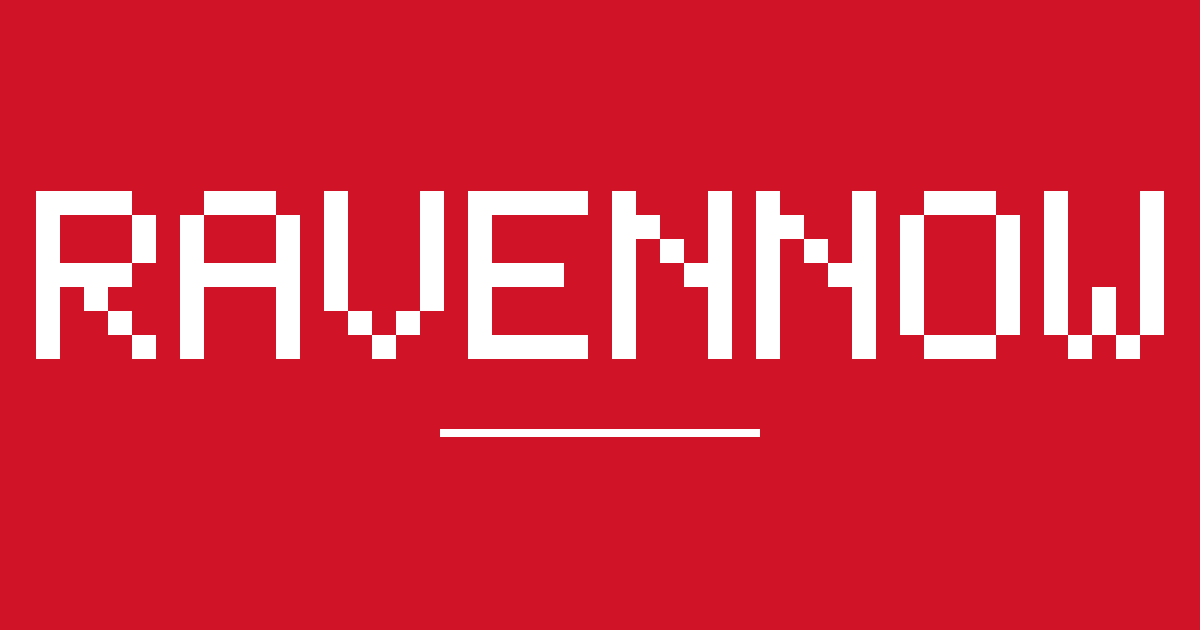
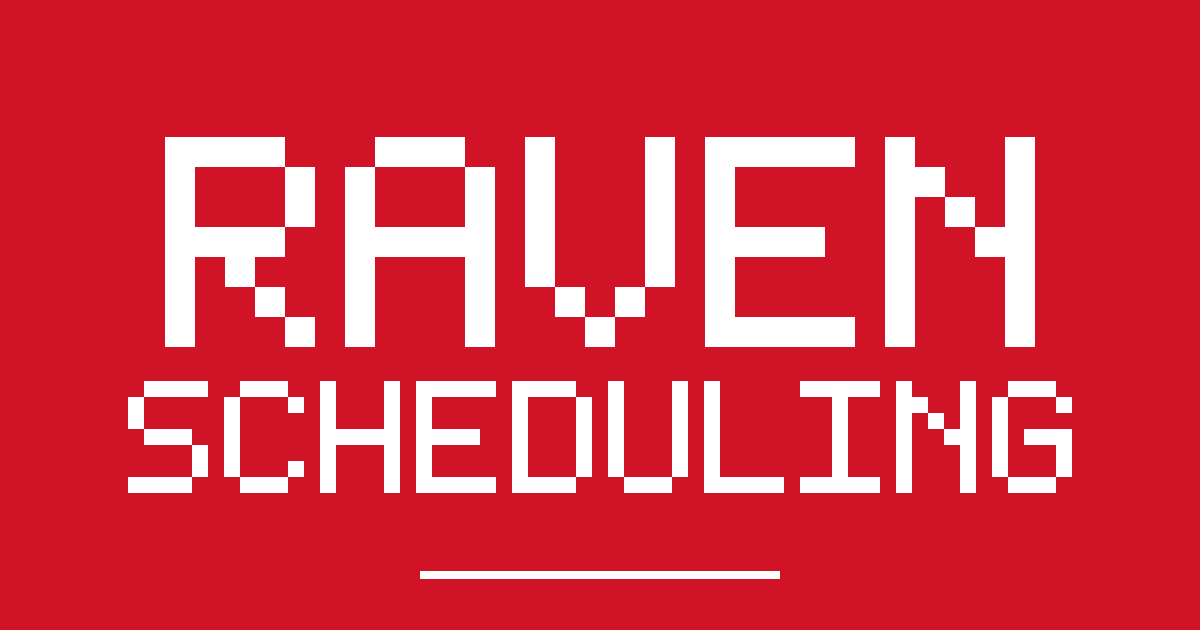
Rename the product to Raven Scheduling
Update every user-facing string, page title, meta tag, the browser extension manifest and docs, and the Open Graph share image.

Change the monogram from RN to RS across the site header, side panel, options page, and favicon, and regenerate the share image from a full uppercase bitmap font with a two-line wordmark.

Changed region(s): [[0.0308, 0.2111, 0.9867, 0.573], [0.0925, 0.6032, 0.8942, 0.7841], [0.3392, 0.9048, 0.6475, 0.9349]]

diff --git a/frontend/src/App.tsx b/frontend/src/App.tsx
@@ -28,7 +28,7 @@ const FEATURES = [
   {
     icon: ListChecks,
     title: "Every deadline in one list",
-    body: "RavenNow reads your courses on Brightspace and lists every assignment, quiz, lab and discussion in the side panel. No syllabus upload, no calendar import.",
+    body: "Raven Scheduling reads your courses on Brightspace and lists every assignment, quiz, lab and discussion in the side panel. No syllabus upload, no calendar import.",
   },
   {
     icon: RefreshCw,
@@ -43,7 +43,7 @@ const FEATURES = [
   {
     icon: ShieldCheck,
     title: "No account, no personal info",
-    body: "RavenNow never asks for your name, student number or Brightspace password. It only stores the deadlines it already shows you.",
+    body: "Raven Scheduling never asks for your name, student number or Brightspace password. It only stores the deadlines it already shows you.",
   },
 ];
 
@@ -54,7 +54,7 @@ const STEPS = [
   },
   {
     title: "Open Brightspace once",
-    body: "Sign in as usual. RavenNow reads your courses and builds the list in the side panel.",
+    body: "Sign in as usual. Raven Scheduling reads your courses and builds the list in the side panel.",
   },
   {
     title: "Check the side panel",
@@ -73,7 +73,7 @@ export default function App() {
   const installHref = config?.chrome_store_url || "/install";
   const installLabel = config?.chrome_store_url
     ? "Add to Chrome"
-    : "Install RavenNow";
+    : "Install Raven Scheduling";
 
   return (
     <div className="flex min-h-screen flex-col">
@@ -94,7 +94,7 @@ export default function App() {
                 Every Brightspace deadline, kept up to date when profs move them.
               </h1>
               <p className="max-w-xl text-lg text-muted-foreground">
-                Stop rebuilding your calendar every term. RavenNow reads your
+                Stop rebuilding your calendar every term. Raven Scheduling reads your
                 deadlines from Brightspace and keeps them current in a browser
                 side panel.
               </p>
@@ -160,7 +160,7 @@ export default function App() {
         {/* Install */}
         <section id="install" className="container py-16 md:py-20">
           <div className="mx-auto max-w-2xl text-center">
-            <h2 className="text-3xl font-semibold tracking-tight">Get RavenNow</h2>
+            <h2 className="text-3xl font-semibold tracking-tight">Get Raven Scheduling</h2>
             <p className="mt-3 text-muted-foreground">
               Available now for Chrome and Edge. Firefox and Safari are planned.
             </p>
@@ -190,7 +190,7 @@ export default function App() {
                 <p className="text-sm text-muted-foreground">
                   {config?.chrome_store_url
                     ? "One click, with automatic updates."
-                    : "RavenNow is not in a store yet, so you load it from a zip once. The steps and a one-line script are on the install page."}
+                    : "Raven Scheduling is not in a store yet, so you load it from a zip once. The steps and a one-line script are on the install page."}
                 </p>
               </CardContent>
             </Card>

diff --git a/frontend/src/pages/PrivacyPage.tsx b/frontend/src/pages/PrivacyPage.tsx
@@ -30,7 +30,7 @@ export default function PrivacyPage() {
             <section className="space-y-2">
               <h2>The short version</h2>
               <p>
-                RavenNow does not ask for your name, email, student number or
+                Raven Scheduling does not ask for your name, email, student number or
                 Brightspace password. It stores the deadlines it reads from your
                 courses so it can show them to you and notice when a due date
                 changes.
@@ -47,7 +47,7 @@ export default function PrivacyPage() {
                   Course names and codes, and assignment titles, types and due
                   dates read from your Brightspace pages.
                 </li>
-                <li>Which items you have checked off in RavenNow.</li>
+                <li>Which items you have checked off in Raven Scheduling.</li>
                 <li>
                   Basic technical data needed to run the service, such as sync
                   timestamps.
@@ -59,7 +59,7 @@ export default function PrivacyPage() {
               <h2>What we do not collect</h2>
               <ul>
                 <li>Your name, email or student number.</li>
-                <li>Your Brightspace password. RavenNow never sees it.</li>
+                <li>Your Brightspace password. Raven Scheduling never sees it.</li>
                 <li>
                   Your grades, submissions, discussion posts or any other course
                   content.
@@ -73,7 +73,7 @@ export default function PrivacyPage() {
               <p>
                 The browser extension reads deadline information from Brightspace
                 pages you are already signed in to. It sends that deadline
-                information to the RavenNow server, which normalizes and stores it
+                information to the Raven Scheduling server, which normalizes and stores it
                 so your list stays consistent and changes can be detected between
                 syncs.
               </p>
@@ -82,7 +82,7 @@ export default function PrivacyPage() {
             <section className="space-y-2">
               <h2>Third parties</h2>
               <p>
-                RavenNow is not affiliated with or endorsed by D2L Corporation or
+                Raven Scheduling is not affiliated with or endorsed by D2L Corporation or
                 Carleton University. We do not sell your data. Data is stored on
                 our hosting provider solely to operate the service.
               </p>

diff --git a/frontend/src/pages/InstallPage.tsx b/frontend/src/pages/InstallPage.tsx
@@ -71,7 +71,7 @@ const STEPS: { title: string; body: ReactNode }[] = [
       <>
         Click <em>Load unpacked</em> and pick the unzipped folder, the one that
         holds{" "}
-        <code className="rounded bg-muted px-1">manifest.json</code>. The RavenNow
+        <code className="rounded bg-muted px-1">manifest.json</code>. The Raven Scheduling
         icon shows up in your toolbar.
       </>
     ),
@@ -102,10 +102,10 @@ export default function InstallPage() {
             No store needed
           </Badge>
           <h1 className="mt-4 text-3xl font-semibold tracking-tight sm:text-4xl">
-            Install RavenNow
+            Install Raven Scheduling
           </h1>
           <p className="mt-3 text-muted-foreground">
-            RavenNow is not in a browser store yet, so you install it yourself.
+            Raven Scheduling is not in a browser store yet, so you install it yourself.
             It takes about a minute, and it runs in Chrome and Edge on Windows,
             macOS and Linux.
           </p>
@@ -151,7 +151,7 @@ export default function InstallPage() {
             <ShieldCheck className="mt-0.5 h-4 w-4 shrink-0 text-brand" />
             <p>
               Chrome may show a notice about developer mode extensions. That is
-              normal for anything not installed from a store. RavenNow stays
+              normal for anything not installed from a store. Raven Scheduling stays
               installed after you restart the browser, and it runs the same code
               you can read in the repository.
             </p>

diff --git a/frontend/index.html b/frontend/index.html
@@ -4,17 +4,17 @@
     <meta charset="UTF-8" />
     <link rel="icon" type="image/svg+xml" href="/favicon.svg" />
     <meta name="viewport" content="width=device-width, initial-scale=1.0" />
-    <title>RavenNow: Brightspace deadlines, kept up to date</title>
+    <title>Raven Scheduling: Brightspace deadlines, kept up to date</title>
     <meta
       name="description"
-      content="RavenNow reads your deadlines from Brightspace and keeps them current in a browser side panel, even when a due date changes. Free."
+      content="Raven Scheduling reads your deadlines from Brightspace and keeps them current in a browser side panel, even when a due date changes. Free."
     />
     <meta name="theme-color" content="#d11328" />
     <meta property="og:type" content="website" />
-    <meta property="og:site_name" content="RavenNow" />
+    <meta property="og:site_name" content="Raven Scheduling" />
     <meta
       property="og:title"
-      content="RavenNow: Brightspace deadlines, kept up to date"
+      content="Raven Scheduling: Brightspace deadlines, kept up to date"
     />
     <meta
       property="og:description"
@@ -26,7 +26,7 @@
     <meta name="twitter:card" content="summary_large_image" />
     <meta
       name="twitter:title"
-      content="RavenNow: Brightspace deadlines, kept up to date"
+      content="Raven Scheduling: Brightspace deadlines, kept up to date"
     />
     <meta
       name="twitter:description"

diff --git a/extension/src/options/options.html b/extension/src/options/options.html
@@ -3,20 +3,20 @@
 <head>
   <meta charset="utf-8" />
   <meta name="viewport" content="width=device-width, initial-scale=1" />
-  <title>RavenNow Settings</title>
+  <title>Raven Scheduling Settings</title>
   <link rel="stylesheet" href="options.css" />
 </head>
 <body>
   <div class="page">
     <header class="page-head">
-      <div class="brand"><span class="mark">RN</span> RavenNow</div>
+      <div class="brand"><span class="mark">RS</span> Raven Scheduling</div>
       <span class="muted">Settings</span>
     </header>
 
     <section class="card">
       <h2>Connection</h2>
       <p class="muted">
-        Point the extension at your RavenNow server. Local development uses
+        Point the extension at your Raven Scheduling server. Local development uses
         <code>http://localhost:8000</code>.
       </p>
 
@@ -74,7 +74,7 @@
 
     <footer class="page-foot">
       <a href="/privacy" id="privacy-link">Privacy policy</a>
-      <span class="muted">RavenNow is an independent student project.</span>
+      <span class="muted">Raven Scheduling is an independent student project.</span>
     </footer>
   </div>
 

diff --git a/extension/src/background.js b/extension/src/background.js
@@ -1,9 +1,9 @@
 /**
- * RavenNow background service worker.
+ * Raven Scheduling background service worker.
  *
  * Responsibilities:
  *  - Keep an anonymous account token (register once, no PII).
- *  - Post scraped deadlines to the RavenNow API and store the result.
+ *  - Post scraped deadlines to the Raven Scheduling API and store the result.
  *  - Poll supported sites every 30 minutes and notify on due-date changes.
  *  - Act as the only component that talks to the network on behalf of the UI.
  */
@@ -59,7 +59,7 @@ async function ensureAccount(force = false) {
     method: "POST",
     headers: { "Content-Type": "application/json" },
     body: JSON.stringify({
-      device_label: cfg.device_label || "RavenNow extension",
+      device_label: cfg.device_label || "Raven Scheduling extension",
       school: cfg.school || "carleton",
     }),
   });

diff --git a/extension/src/sidepanel/panel.html b/extension/src/sidepanel/panel.html
@@ -3,14 +3,14 @@
 <head>
   <meta charset="utf-8" />
   <meta name="viewport" content="width=device-width, initial-scale=1" />
-  <title>RavenNow</title>
+  <title>Raven Scheduling</title>
   <link rel="stylesheet" href="panel.css" />
 </head>
 <body>
   <header class="head">
     <div class="brand">
-      <span class="mark">RN</span>
-      <span class="name">RavenNow</span>
+      <span class="mark">RS</span>
+      <span class="name">Raven Scheduling</span>
     </div>
     <div class="head-actions">
       <button id="sync" class="icon-btn" title="Sync now">⟳</button>

diff --git a/extension/src/common.js b/extension/src/common.js
@@ -1,5 +1,5 @@
 /**
- * Shared helpers for RavenNow content scripts.
+ * Shared helpers for Raven Scheduling content scripts.
  *
  * Content scripts run in an isolated world, but files injected into the same
  * frame share it, so `window.RN` defined here is visible to brightspace.js.
@@ -11,7 +11,7 @@
     DEBUG: false,
 
     log(...args) {
-      if (RN.DEBUG) console.debug("[RavenNow]", ...args);
+      if (RN.DEBUG) console.debug("[Raven Scheduling]", ...args);
     },
 
     /** Collapse whitespace in a DOM node's text. */

diff --git a/frontend/src/components/site/site-footer.tsx b/frontend/src/components/site/site-footer.tsx
@@ -8,7 +8,7 @@ export function SiteFooter({ meta }: { meta: Meta }) {
         <div className="space-y-2">
           <Wordmark />
           <p className="max-w-xl text-sm text-muted-foreground">
-            RavenNow is an independent student project and is not affiliated
+            Raven Scheduling is an independent student project and is not affiliated
             with or endorsed by D2L Corporation or Carleton University.
             &ldquo;Brightspace&rdquo; is a product of D2L Corporation.
           </p>

diff --git a/frontend/src/components/site/brand.tsx b/frontend/src/components/site/brand.tsx
@@ -9,7 +9,7 @@ export function BrandMark({ className }: { className?: string }) {
         className
       )}
     >
-      RN
+      RS
     </span>
   );
 }
@@ -18,7 +18,7 @@ export function Wordmark({ className }: { className?: string }) {
   return (
     <span className={cn("flex items-center gap-2 font-semibold tracking-tight", className)}>
       <BrandMark />
-      RavenNow
+      Raven Scheduling
     </span>
   );
 }

diff --git a/frontend/src/pages/DashboardPage.tsx b/frontend/src/pages/DashboardPage.tsx
@@ -224,7 +224,7 @@ export default function DashboardPage() {
                   type="password"
                   value={token}
                   onChange={(event) => setToken(event.target.value)}
-                  placeholder="Paste your RavenNow token"
+                  placeholder="Paste your Raven Scheduling token"
                   autoComplete="off"
                 />
               </div>

diff --git a/frontend/src/components/site/site-header.tsx b/frontend/src/components/site/site-header.tsx
@@ -13,7 +13,7 @@ interface SiteHeaderProps {
 export function SiteHeader({
   meta,
   installHref,
-  installLabel = "Install RavenNow",
+  installLabel = "Install Raven Scheduling",
 }: SiteHeaderProps) {
   return (
     <header className="sticky top-0 z-40 w-full border-b bg-background/80 backdrop-blur supports-[backdrop-filter]:bg-background/60">
